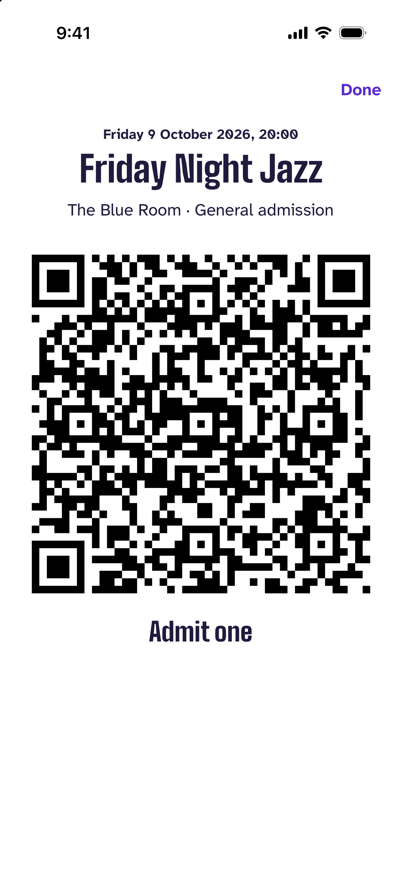
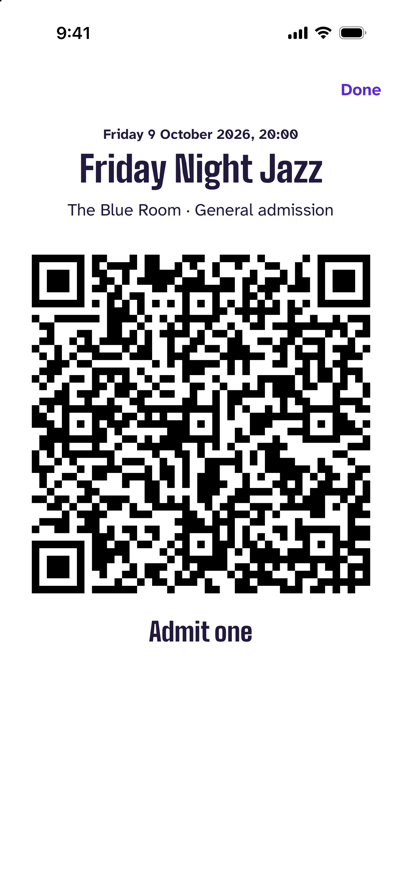
docs: app screenshots of Events and an event
- mobile/maestro/screenshots: two new flows, the Events tab and an
  event with two tickets chosen. The door flows are renumbered after
  them (05 to 09), and the door picker now signs out from My tickets.
- scripts/app-screenshots.sh takes app-events.png and app-event.png.
  It also closes the app's other builds before starting: launched over
  the dev build, the Release app showed "◀ Doorlist Dev" in the status
  bar.
- The README's app section leads with an event, then My tickets and
  the offline door, and says attendees claim tickets in the app.
- Retaken with the script. Sign-in and the door shots came out
  byte-identical; the ticket shots differ only in their QR codes.

Changed region(s): [[0.0597, 0.278, 0.9254, 0.6796]]

diff --git a/README.md b/README.md
@@ -27,14 +27,14 @@ Doorlist is also a public reference project. Alongside the features, it shows ho
 ## The mobile app
 
 <p align="center">
+  <img src="docs/screenshots/app-event.png" width="250" alt="An event in the app: its date and venue, ticket types with how many are left, and two tickets chosen to claim">
   <img src="docs/screenshots/app-tickets.png" width="250" alt="The app's My tickets: violet paper tickets, each with a QR code on a white stub">
-  <img src="docs/screenshots/app-door.png" width="250" alt="The app's door console admitting a ticket online, with the holder's name and ticket type">
   <img src="docs/screenshots/app-door-offline.png" width="250" alt="The door console offline: a genuine ticket admitted in amber, and two scans waiting to sync">
 </p>
 
 An Expo app for iOS and Android, with the web's look ([ADR 9](docs/adr/0009-mobile-app-navigation-storage-and-offline-signatures.md)).
 
-- **Attendees** see their tickets. They're saved on the phone, so the QR codes show without a connection.
+- **Attendees** browse upcoming events and claim tickets, up to 4 per event, as on the web. Their tickets are saved on the phone, so the QR codes show without a connection.
 - **Door staff** scan with the camera, a Bluetooth scanner or a pasted code, under the web door's rules. Online, the server decides. Offline, the phone checks each signature itself, queues the scans, and after syncing flags any ticket another door let in first.
 - **Version 0.1.0,** not in the app stores. It has run on the iOS Simulator and an Android emulator. Reading a QR code with a camera still needs a real phone.
 
